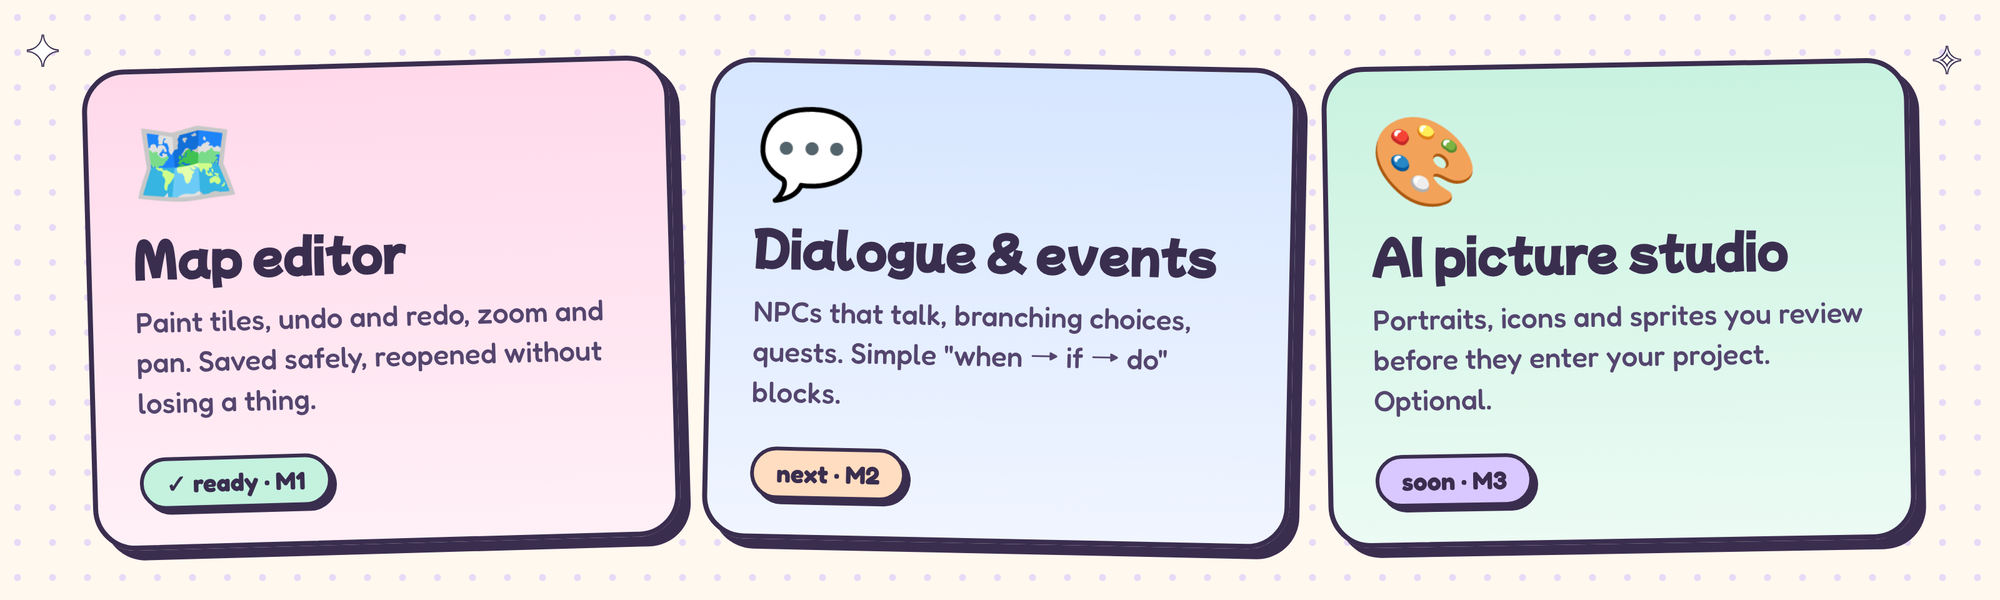
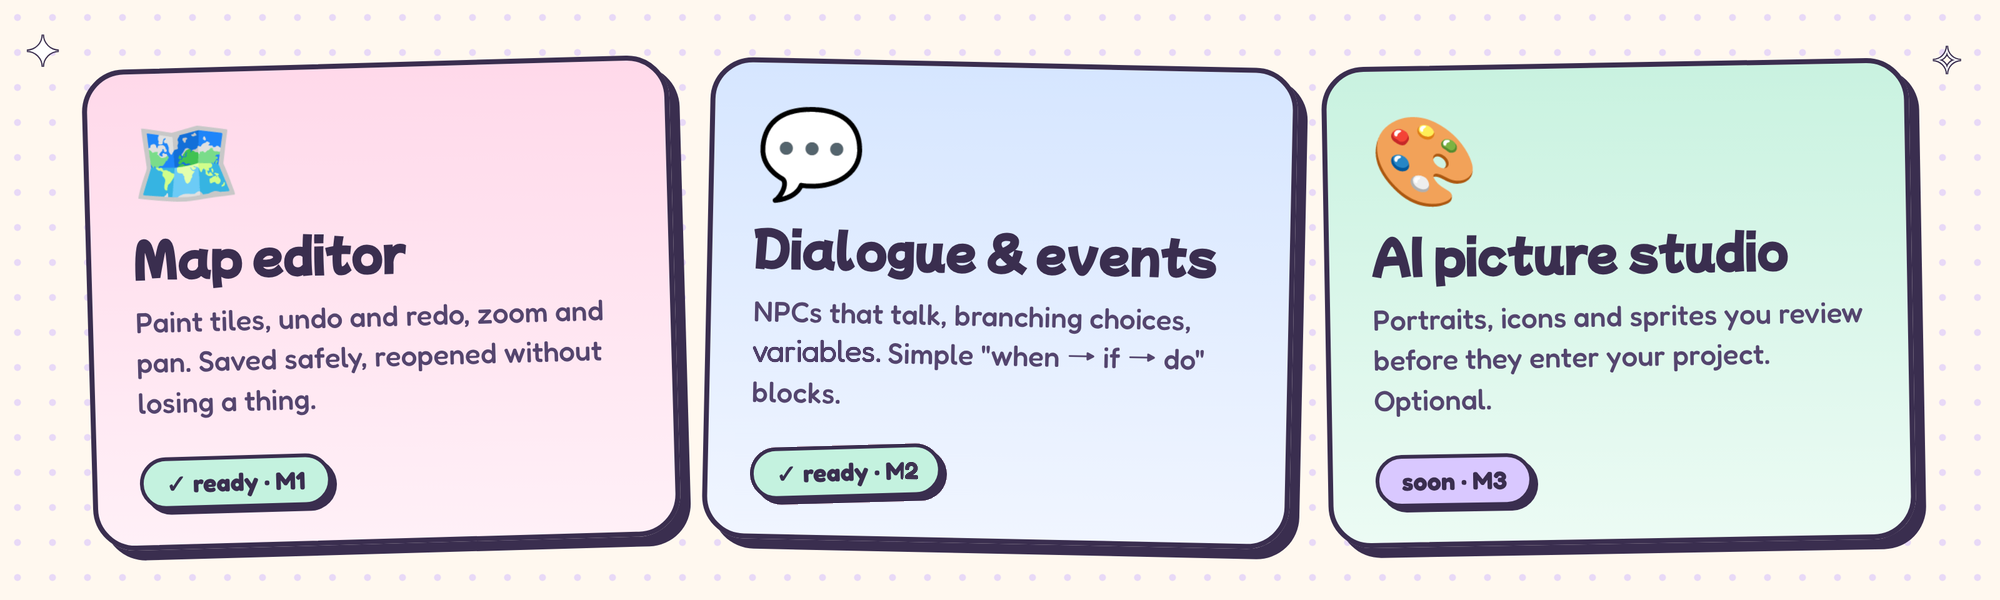
docs: features image and alt text now show M2 as ready
Gikka Ink 2026

Changed region(s): [[0.372, 0.72, 0.496, 0.87], [0.372, 0.57, 0.62, 0.63]]

diff --git a/README.md b/README.md
@@ -19,7 +19,7 @@ NestST is for people who have a story but don't want to write code: storytellers
 
 <div align="center">
 
-<img src="docs/images/nestst-features.png" alt="Three cards: Map editor (ready, M1), Dialogue and events (next, M2), AI picture studio (soon, M3)." width="100%">
+<img src="docs/images/nestst-features.png" alt="Three cards: Map editor (ready, M1), Dialogue and events (ready, M2), AI picture studio (soon, M3)." width="100%">
 
 </div>
 
